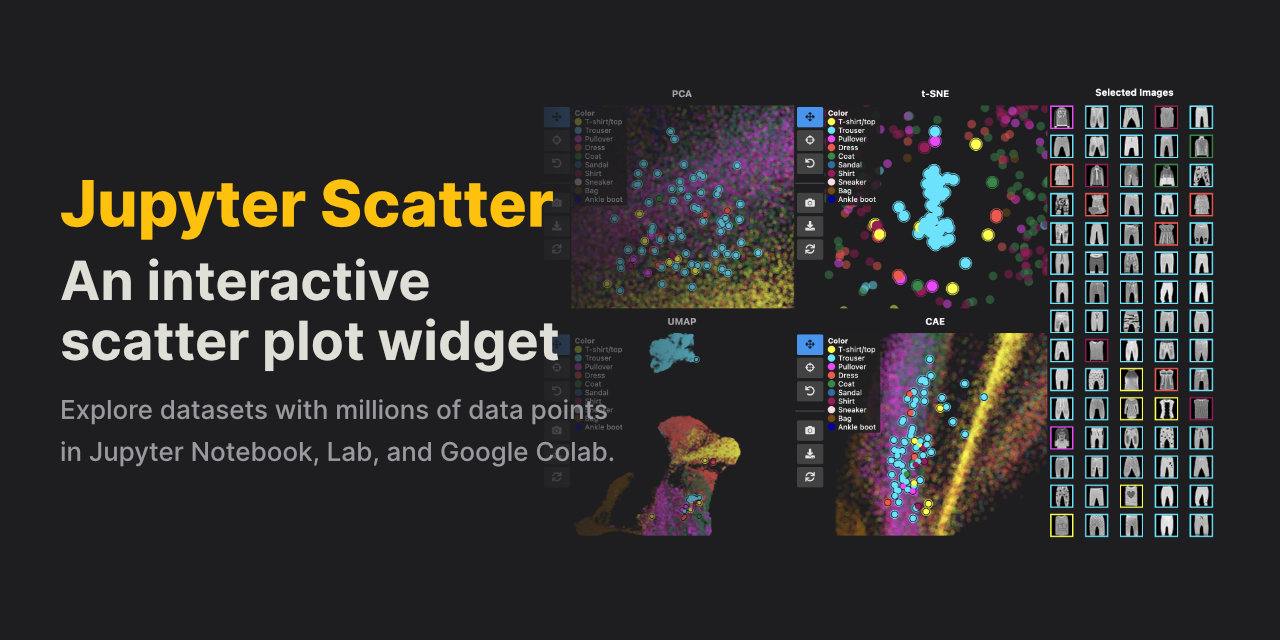
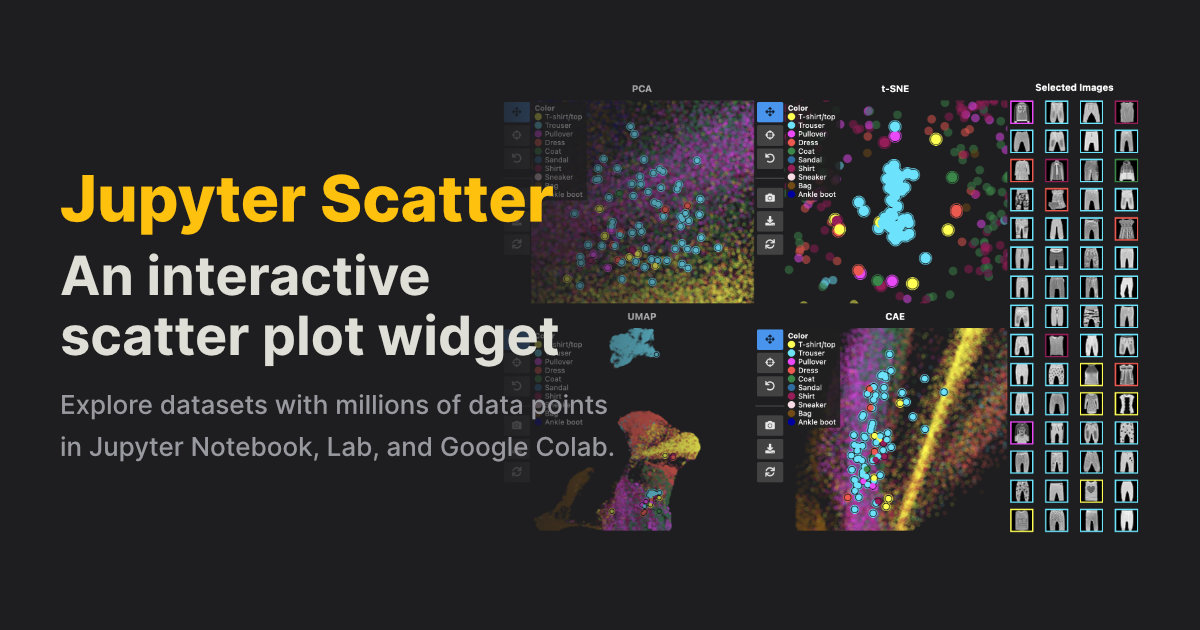
Create separate open graph and twitter images

Changed region(s): [[0.0308, 0.1206, 0.9558, 0.8444]]

diff --git a/docs/.vitepress/config.ts b/docs/.vitepress/config.ts
@@ -23,7 +23,7 @@ export default defineConfig({
       'meta',
       {
         name: 'twitter:image',
-        content: 'https://jupyter-scatter.dev/images/jupyter-scatter-og.jpg'
+        content: 'https://jupyter-scatter.dev/images/jupyter-scatter-twitter.jpg'
       }
     ],
     [
